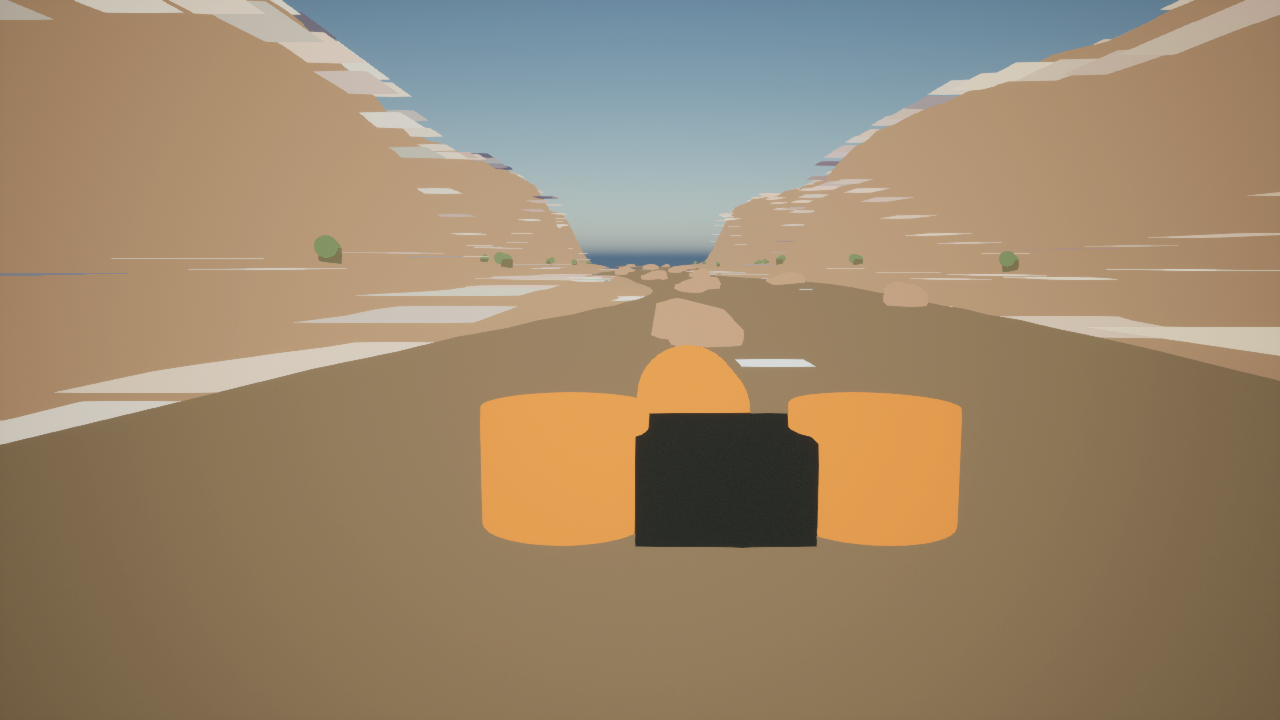
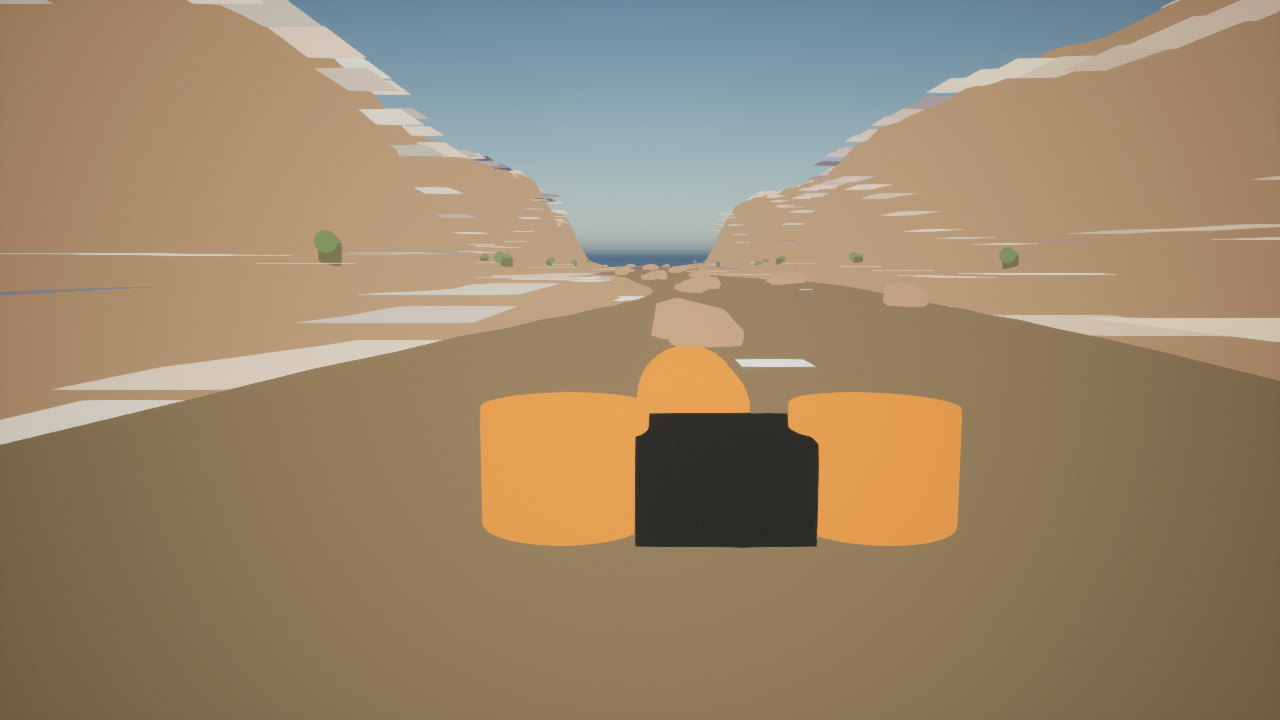
Add 3DEP relief previews for remaining rivers

diff --git a/physics/src/raftsim/geospatial_preview.py b/physics/src/raftsim/geospatial_preview.py
@@ -83,6 +83,48 @@ def _normalized_relief(dem: np.ndarray) -> tuple[np.ndarray, np.ndarray]:
     return height, relief
 
 
+def _manifest_path(path: Path, repo_root: Path | None) -> str:
+    if repo_root is None:
+        return str(path)
+    return str(path.resolve().relative_to(repo_root.resolve()))
+
+
+def build_dem_relief_preview(
+    dem_path: Path,
+    output_relief_png_path: Path,
+    output_manifest_path: Path,
+    source_id: str,
+    provider: str,
+    repo_root: Path | None = None,
+) -> None:
+    dem = _load_float_tiff(dem_path)
+    _, relief = _normalized_relief(dem)
+    relief_image = Image.fromarray(np.clip(relief * 255.0, 0, 255).astype(np.uint8), mode="L")
+    relief_image = relief_image.resize((512, 512), Image.Resampling.BILINEAR)
+
+    output_relief_png_path.parent.mkdir(parents=True, exist_ok=True)
+    relief_image.save(output_relief_png_path)
+
+    manifest = {
+        "schema": "raftsim.dem_relief_preview.v1",
+        "status": "generated_preview_only_not_production_heightfield",
+        "source_id": source_id,
+        "provider": provider,
+        "input_dem": _manifest_path(dem_path, repo_root),
+        "output_relief": _manifest_path(output_relief_png_path, repo_root),
+        "processing": {
+            "output_size_px": 512,
+            "height_percentiles": "2_to_98",
+            "relief": "slope_aware_normalized_grayscale_preview",
+        },
+        "caveats": [
+            "Preview relief is sampled into procedural geometry only.",
+            "Full terrain import still requires clipping, reprojection, conditioning, and Unreal heightfield or landscape import.",
+        ],
+    }
+    output_manifest_path.write_text(json.dumps(manifest, indent=2) + "\n", encoding="utf-8")
+
+
 def build_pacuare_demshade_drape(
     nasa_truecolor_path: Path,
     southern_dem_path: Path,
@@ -128,11 +170,6 @@ def build_pacuare_demshade_drape(
     output_relief_png_path.parent.mkdir(parents=True, exist_ok=True)
     Image.fromarray(np.clip(relief * 255.0, 0, 255).astype(np.uint8), mode="L").save(output_relief_png_path)
 
-    def manifest_path(path: Path) -> str:
-        if repo_root is None:
-            return str(path)
-        return str(path.resolve().relative_to(repo_root.resolve()))
-
     manifest = {
         "schema": "raftsim.pacuare_source_drape_composite.v1",
         "status": "generated_preview_only_not_production_photoreal",
@@ -143,13 +180,13 @@ def build_pacuare_demshade_drape(
             "max_lat": bounds.max_lat,
         },
         "inputs": {
-            "nasa_gibs_truecolor": manifest_path(nasa_truecolor_path),
+            "nasa_gibs_truecolor": _manifest_path(nasa_truecolor_path, repo_root),
             "nasa_gibs_selected_date": selected_date,
-            "copernicus_dem_glo30_southern_tile": manifest_path(southern_dem_path),
-            "copernicus_dem_glo30_northern_tile": manifest_path(northern_dem_path),
+            "copernicus_dem_glo30_southern_tile": _manifest_path(southern_dem_path, repo_root),
+            "copernicus_dem_glo30_northern_tile": _manifest_path(northern_dem_path, repo_root),
         },
-        "output": manifest_path(output_png_path),
-        "terrain_relief_output": manifest_path(output_relief_png_path),
+        "output": _manifest_path(output_png_path, repo_root),
+        "terrain_relief_output": _manifest_path(output_relief_png_path, repo_root),
         "processing": {
             "size_px": 512,
             "dem_sampling": "nearest_neighbor_from_copernicus_glo30_tiles",
@@ -166,12 +203,30 @@ def build_pacuare_demshade_drape(
 
 
 def main() -> None:
-    parser = argparse.ArgumentParser(description="Build Pacuare source-derived DEM-shaded preview drape.")
+    parser = argparse.ArgumentParser(description="Build source-derived DEM relief and preview drapes for river environments.")
     parser.add_argument("--repo-root", type=Path, default=Path.cwd())
     args = parser.parse_args()
 
     repo_root = args.repo_root.resolve()
+    south_fork_root = repo_root / "physics/data/real_world/south_fork_american_chili_bar"
+    colorado_root = repo_root / "physics/data/real_world/colorado_river_grand_canyon_rowing"
     pacuare_root = repo_root / "physics/data/real_world/pacuare_river_costa_rica"
+    build_dem_relief_preview(
+        dem_path=south_fork_root / "terrain/usgs_3dep_chili_bar_sample_256.tif",
+        output_relief_png_path=south_fork_root / "terrain/usgs_3dep_chili_bar_relief_preview_512.png",
+        output_manifest_path=south_fork_root / "terrain/usgs_3dep_chili_bar_relief_preview_manifest.json",
+        source_id="usgs_3dep_chili_bar_sample_256",
+        provider="USGS 3D Elevation Program ImageServer",
+        repo_root=repo_root,
+    )
+    build_dem_relief_preview(
+        dem_path=colorado_root / "terrain/usgs_3dep_lees_ferry_sample_256.tif",
+        output_relief_png_path=colorado_root / "terrain/usgs_3dep_lees_ferry_relief_preview_512.png",
+        output_manifest_path=colorado_root / "terrain/usgs_3dep_lees_ferry_relief_preview_manifest.json",
+        source_id="usgs_3dep_lees_ferry_sample_256",
+        provider="USGS 3D Elevation Program ImageServer",
+        repo_root=repo_root,
+    )
     build_pacuare_demshade_drape(
         nasa_truecolor_path=pacuare_root / "imagery/nasa_gibs_pacuare_truecolor_2025-04-02_512.png",
         southern_dem_path=pacuare_root / "terrain/copernicus_dem_glo30_N09_W084.tif",

diff --git a/unreal/Plugins/RaftSim/Source/RaftSimEditor/Private/RaftSimEditorModule.cpp b/unreal/Plugins/RaftSim/Source/RaftSimEditor/Private/RaftSimEditorModule.cpp
@@ -202,10 +202,12 @@ TArray<FRaftSimEnvironmentPreviewSpec> GetEnvironmentPreviewSpecs()
     SouthFork.SourceManifest = TEXT("physics/data/real_world/south_fork_american_chili_bar/source_manifest.json");
     SouthFork.AerialDrapeImage =
         TEXT("physics/data/real_world/south_fork_american_chili_bar/imagery/usda_naip_chili_bar_sample_512.png");
+    SouthFork.TerrainReliefImage =
+        TEXT("physics/data/real_world/south_fork_american_chili_bar/terrain/usgs_3dep_chili_bar_relief_preview_512.png");
     SouthFork.ElevationSample =
         TEXT("physics/data/real_world/south_fork_american_chili_bar/terrain/usgs_3dep_chili_bar_sample_256.tif");
     SouthFork.SourceDrapeDescription =
-        TEXT("official USDA/APFO NAIP 512px aerial sample sampled into visible terrain overlay tiles; USGS 3DEP GeoTIFF sample recorded for follow-on elevation conditioning; rocks, foliage, water, foam, raft, and lighting remain proxy layers");
+        TEXT("official USDA/APFO NAIP 512px aerial sample sampled into visible terrain overlay tiles; derived USGS 3DEP relief preview sampled into bank and valley terrain geometry; full elevation conditioning remains pending; rocks, foliage, water, foam, raft, and lighting remain proxy layers");
     SouthFork.WaterColor = FLinearColor(0.04f, 0.32f, 0.36f);
     SouthFork.TerrainColor = FLinearColor(0.35f, 0.30f, 0.21f);
     SouthFork.RockColor = FLinearColor(0.38f, 0.36f, 0.31f);
@@ -214,6 +216,7 @@ TArray<FRaftSimEnvironmentPreviewSpec> GetEnvironmentPreviewSpecs()
     SouthFork.RiverHalfWidthCm = 335.0f;
     SouthFork.BankWidthCm = 720.0f;
     SouthFork.BendAmplitudeCm = 290.0f;
+    SouthFork.TerrainReliefAmplitudeCm = 180.0f;
     SouthFork.BoulderCount = 24;
     SouthFork.FoliageCount = 46;
     SouthFork.FoamTrainCount = 14;
@@ -226,10 +229,12 @@ TArray<FRaftSimEnvironmentPreviewSpec> GetEnvironmentPreviewSpecs()
     Colorado.SourceManifest = TEXT("physics/data/real_world/colorado_river_grand_canyon_rowing/source_manifest.json");
     Colorado.AerialDrapeImage =
         TEXT("physics/data/real_world/colorado_river_grand_canyon_rowing/imagery/usda_naip_lees_ferry_sample_512.png");
+    Colorado.TerrainReliefImage =
+        TEXT("physics/data/real_world/colorado_river_grand_canyon_rowing/terrain/usgs_3dep_lees_ferry_relief_preview_512.png");
     Colorado.ElevationSample =
         TEXT("physics/data/real_world/colorado_river_grand_canyon_rowing/terrain/usgs_3dep_lees_ferry_sample_256.tif");
     Colorado.SourceDrapeDescription =
-        TEXT("official USDA/APFO NAIP 512px Lees Ferry aerial sample sampled into visible canyon terrain overlay tiles; USGS 3DEP GeoTIFF sample recorded for follow-on canyon heightfield conditioning; rocks, foliage, water, foam, raft, and lighting remain proxy layers");
+        TEXT("official USDA/APFO NAIP 512px Lees Ferry aerial sample sampled into visible canyon terrain overlay tiles; derived USGS 3DEP relief preview sampled into canyon bank geometry; full canyon heightfield conditioning remains pending; rocks, foliage, water, foam, raft, and lighting remain proxy layers");
     Colorado.WaterColor = FLinearColor(0.28f, 0.20f, 0.12f);
     Colorado.TerrainColor = FLinearColor(0.48f, 0.30f, 0.18f);
     Colorado.RockColor = FLinearColor(0.55f, 0.32f, 0.20f);
@@ -238,6 +243,7 @@ TArray<FRaftSimEnvironmentPreviewSpec> GetEnvironmentPreviewSpecs()
     Colorado.RiverHalfWidthCm = 520.0f;
     Colorado.BankWidthCm = 1500.0f;
     Colorado.BendAmplitudeCm = 360.0f;
+    Colorado.TerrainReliefAmplitudeCm = 650.0f;
     Colorado.BoulderCount = 20;
     Colorado.FoliageCount = 18;
     Colorado.FoamTrainCount = 9;

diff --git a/docs/photoreal-river-environment-production-plan.md b/docs/photoreal-river-environment-production-plan.md
@@ -68,6 +68,7 @@ Initial source slice:
 - NASA GIBS MODIS/Terra true-color samples were pulled for five dates. The April 2, 2025 sample has the best visible rainforest texture and is used as the coarse Unreal preview drape; the other dates are retained as cloud-screening evidence.
 - `physics/src/raftsim/geospatial_preview.py` now generates a deterministic Pacuare preview drape that blends the selected NASA GIBS image with Copernicus DEM relief, filling cloud gaps with DEM-derived rainforest shading. This improves source-derived preview continuity but is still not production photoreal imagery.
 - The same utility emits `terrain/pacuare_dem_relief_preview_512.png`, which the Unreal preview generator samples for Pacuare bank/gorge height perturbation. The river channel is masked so water readability remains intact; this is a preview-only step before proper heightfield import.
+- The utility also emits preview-only USGS 3DEP relief PNGs for the South Fork and Colorado sample pulls, letting the generated Unreal terrain use source-derived bank/canyon perturbation while full DEM conditioning and landscape import remain open.
 - OpenTopography SRTMGL1 was probed and returned an API-key requirement, so that path remains available only after key and terms review.
 
 ## Unreal Construction Plan
@@ -93,8 +94,9 @@ Initial source slice:
 - First-pass river `.umap` assets now exist under `unreal/Content/RaftSim/Maps/EnvironmentPreviews/`.
 - Rendered guide-seat procedural blockout captures now exist under `docs/environment-captures/photoreal_river_previews/`, but they are not lifelike production evidence yet.
 - The first South Fork official source slice now exists at `physics/data/real_world/south_fork_american_chili_bar/production_source_pull_manifest.json`: historical USGS `11445500` daily discharge, TNM NHD product metadata, TNM DEM/NAIP zero-hit diagnostics, a small USGS 3DEP GeoTIFF sample, and a small USDA/APFO NAIP aerial sample.
-- The South Fork preview now uses the USDA/APFO NAIP sample as a source-derived visible terrain overlay in Unreal. This proves the imagery-to-editor path, but it is a small smoke-test raster rather than a complete orthomosaic or terrain material pass.
+- The South Fork preview now uses the USDA/APFO NAIP sample as a source-derived visible terrain overlay and `terrain/usgs_3dep_chili_bar_relief_preview_512.png` as preview-only bank/valley terrain relief in Unreal. This proves imagery and relief plumbing, but the inputs are small smoke-test rasters rather than complete orthomosaic, conditioned DEM, or terrain material passes.
 - The first Colorado/Lees Ferry official source slice now exists at `physics/data/real_world/colorado_river_grand_canyon_rowing/production_source_pull_manifest.json`: USGS `09380000` and `09402500` daily discharge histories through July 4, 2026, a small USGS 3DEP GeoTIFF sample, and a small USDA/APFO NAIP aerial sample. The Colorado preview uses that NAIP sample as a source-derived visible canyon terrain overlay.
+- The Colorado preview now also uses `terrain/usgs_3dep_lees_ferry_relief_preview_512.png` as preview-only canyon bank relief in Unreal, while full Grand Canyon corridor terrain tiling, river-mile stationing, and heightfield import remain pending.
 - The first Pacuare public/global source slice now exists at `physics/data/real_world/pacuare_river_costa_rica/production_source_pull_manifest.json`: Copernicus DEM GLO-30 public COG tiles for the draft bounds, a NASA GIBS MODIS/Terra April 2, 2025 true-color preview sample selected from five cloud-screened dates, a deterministic NASA-plus-DEM preview drape, and an OpenTopography API-key gate probe. The Pacuare preview uses the derived drape as a source-derived visible rainforest terrain overlay.
 - The preview generator now keeps source provenance out of the rendered guide-seat frame and records it in JSON instead. Foliage proxies use rounded clustered canopies and slimmer trunks rather than cone silhouettes, which improves review readability but is still not production photoreal vegetation.
 - The existing default map path `/Game/RaftSim/Maps/L_RaftSimBoot` has no committed level asset yet.
@@ -106,9 +108,9 @@ Initial source slice:
 
 - South Fork American: `/Game/RaftSim/Maps/EnvironmentPreviews/L_SouthForkAmerican_PhotorealPreview`, capture `docs/environment-captures/photoreal_river_previews/american_south_fork_guide_seat_downstream.png`.
 - South Fork source data: `physics/data/real_world/south_fork_american_chili_bar/production_source_pull_manifest.json` records the initial official pull; this is enough to prove provenance plumbing but not enough for production terrain/imagery.
-- South Fork Unreal source layer: `physics/data/real_world/south_fork_american_chili_bar/imagery/usda_naip_chili_bar_sample_512.png` is sampled into visible terrain overlay tiles for the generated preview map; `physics/data/real_world/south_fork_american_chili_bar/terrain/usgs_3dep_chili_bar_sample_256.tif` is recorded in the generated capture manifest for the next heightfield-conditioning pass.
+- South Fork Unreal source layer: `physics/data/real_world/south_fork_american_chili_bar/imagery/usda_naip_chili_bar_sample_512.png` is sampled into visible terrain overlay tiles for the generated preview map, `physics/data/real_world/south_fork_american_chili_bar/terrain/usgs_3dep_chili_bar_relief_preview_512.png` is sampled into preview terrain geometry, and `physics/data/real_world/south_fork_american_chili_bar/terrain/usgs_3dep_chili_bar_sample_256.tif` is recorded for the next heightfield-conditioning pass.
 - Colorado River: `/Game/RaftSim/Maps/EnvironmentPreviews/L_ColoradoGrandCanyon_PhotorealPreview`, capture `docs/environment-captures/photoreal_river_previews/colorado_river_guide_seat_downstream.png`.
-- Colorado source data: `physics/data/real_world/colorado_river_grand_canyon_rowing/production_source_pull_manifest.json` records the initial official pull; `imagery/usda_naip_lees_ferry_sample_512.png` is sampled into visible canyon terrain overlay tiles, and `terrain/usgs_3dep_lees_ferry_sample_256.tif` is recorded for the next canyon heightfield-conditioning pass.
+- Colorado source data: `physics/data/real_world/colorado_river_grand_canyon_rowing/production_source_pull_manifest.json` records the initial official pull; `imagery/usda_naip_lees_ferry_sample_512.png` is sampled into visible canyon terrain overlay tiles, `terrain/usgs_3dep_lees_ferry_relief_preview_512.png` is sampled into preview canyon terrain geometry, and `terrain/usgs_3dep_lees_ferry_sample_256.tif` is recorded for the next canyon heightfield-conditioning pass.
 - Pacuare River: `/Game/RaftSim/Maps/EnvironmentPreviews/L_PacuareRainforest_PhotorealPreview`, capture `docs/environment-captures/photoreal_river_previews/pacuare_guide_seat_downstream.png`.
 - Pacuare source data: `physics/data/real_world/pacuare_river_costa_rica/production_source_pull_manifest.json` records the initial public/global pull; `imagery/pacuare_nasa_gibs_2025-04-02_demshade_source_drape_512.png` is sampled into visible rainforest terrain overlay tiles, `terrain/pacuare_dem_relief_preview_512.png` is sampled into preview terrain geometry, and `terrain/copernicus_dem_glo30_N09_W084.tif` plus `terrain/copernicus_dem_glo30_N10_W084.tif` are recorded for the next gorge heightfield-conditioning pass.
 - These captures verify editor automation, camera placement, generated valley terrain meshes, curved river ribbons, foam/hydraulic cue strips, boulder bars, foliage proxies, and per-river light/fog variants. They must be replaced by source-derived or rights-cleared photoreal passes before the goal is complete.

diff --git a/TODO.md b/TODO.md
@@ -935,6 +935,7 @@ This milestone turns the three runnable river targets into complete, reviewable,
 - [x] Improve the generated preview dressing by removing in-world provenance labels from guide-seat captures, replacing cone-style tree proxies with clustered rounded foliage, slimming trunks, softening understory, and preserving provenance only in the capture/source manifests. This is a cleaner review preview, not final photoreal foliage.
 - [x] Add a deterministic Pacuare geospatial preview utility that combines the selected NASA GIBS true-color image with Copernicus DEM GLO-30 relief into `imagery/pacuare_nasa_gibs_2025-04-02_demshade_source_drape_512.png`, records the processing manifest, and uses that source-derived drape in the Unreal Pacuare preview.
 - [x] Use the Pacuare Copernicus DEM relief preview in Unreal terrain generation by sampling `terrain/pacuare_dem_relief_preview_512.png` for preview-only bank/gorge height perturbation, while masking the river channel and recording the relief input in the capture manifest.
+- [x] Generate and wire USGS 3DEP relief previews for South Fork and Colorado by deriving `terrain/usgs_3dep_chili_bar_relief_preview_512.png` and `terrain/usgs_3dep_lees_ferry_relief_preview_512.png` from the official sample GeoTIFFs, sampling them into generated Unreal preview terrain, and recording the preview-only provenance manifests.
 - [ ] Pull or attach reviewed production geospatial source data: DEM/lidar, hydrography, aerial/satellite imagery, water/vegetation masks, flow/gauge/rainfall history, protected-area/access context, and guide/media annotation references.
 - [ ] Replace proxy terrain, banks, rocks, foliage, water materials, foam/spray/mist, wetness, and lighting with source-derived or rights-cleared assets until screenshots read as lifelike without hiding hazards or rescue targets.
 - [ ] Add or license production-quality river environment asset packs/materials, or generate approved first-party procedural equivalents, for canyon walls, riverbeds, wet boulders, shore vegetation, tropical canopy, foam/spray/mist, raft foreground, and river-specific atmospheric lighting.
